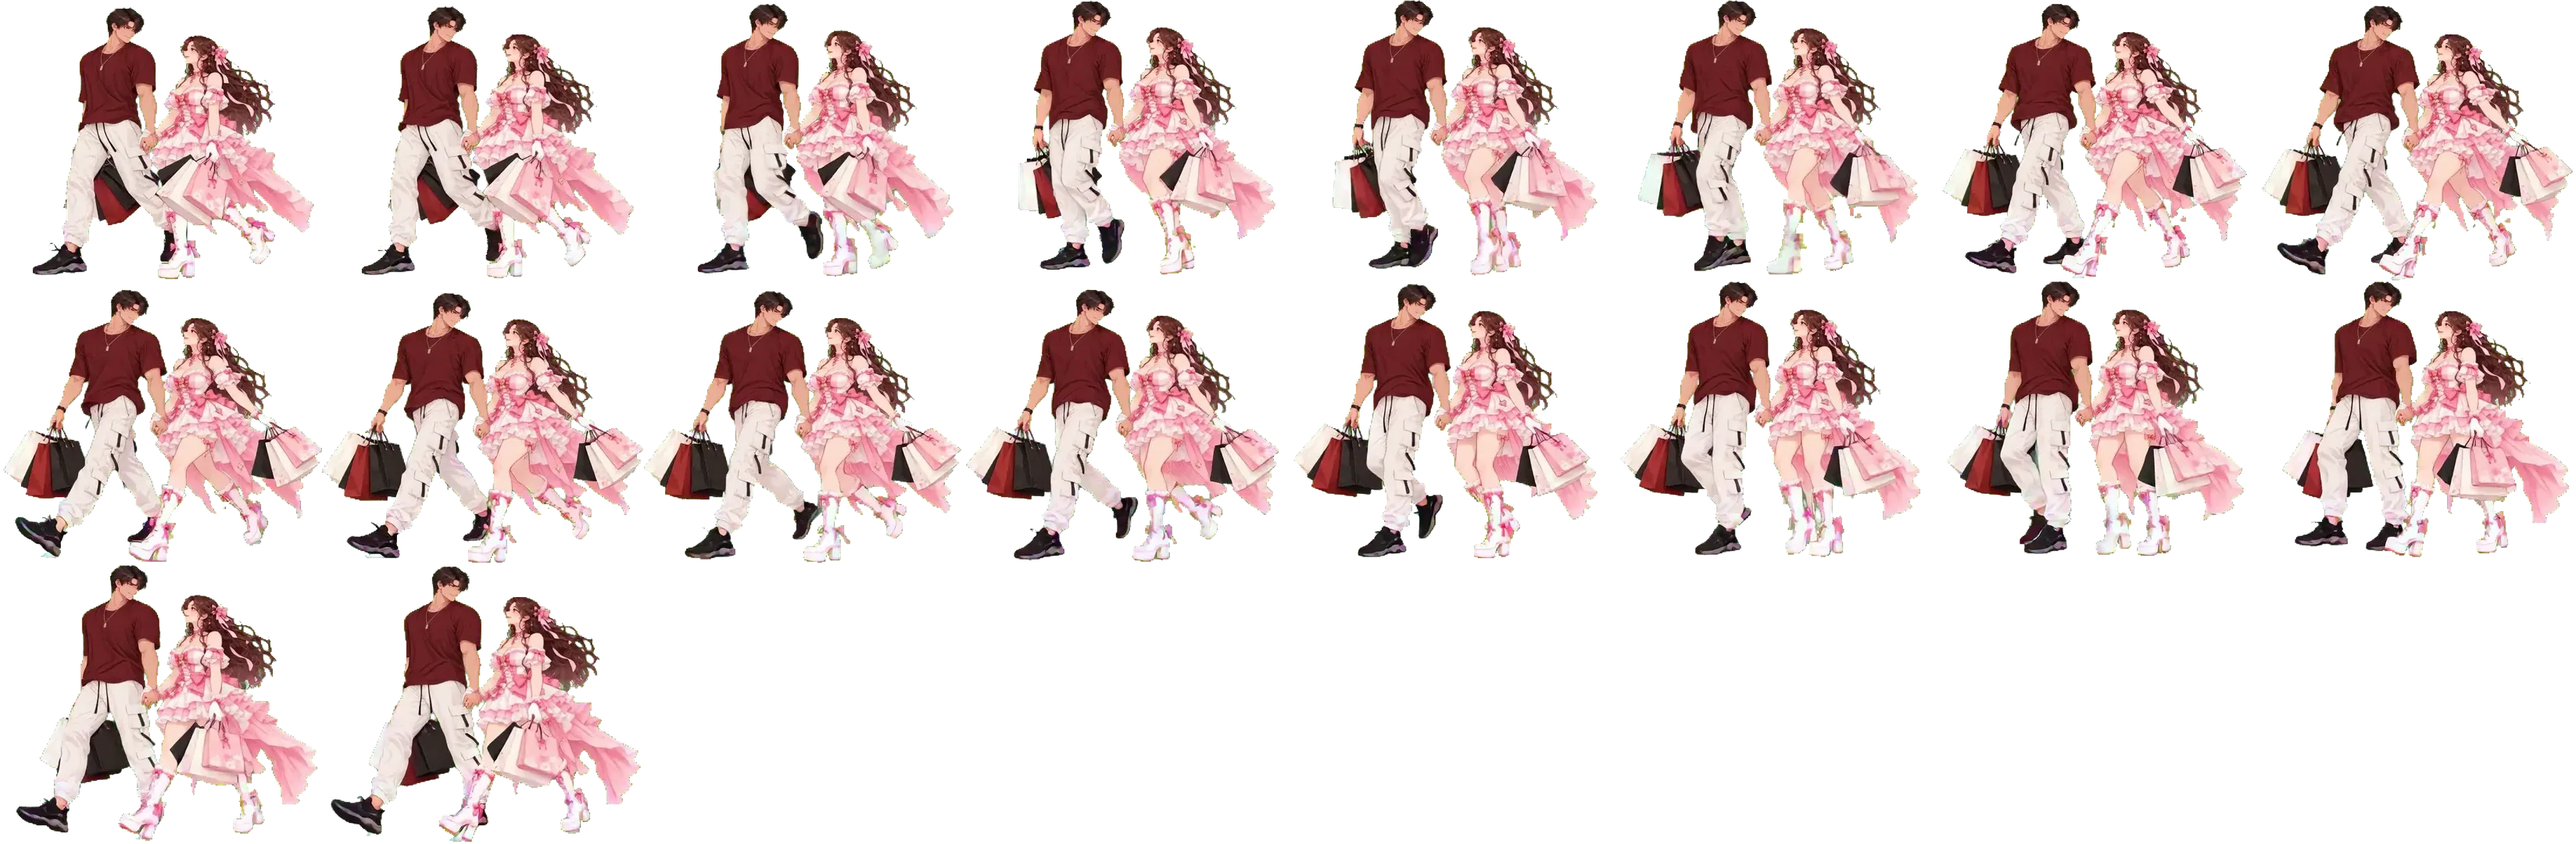
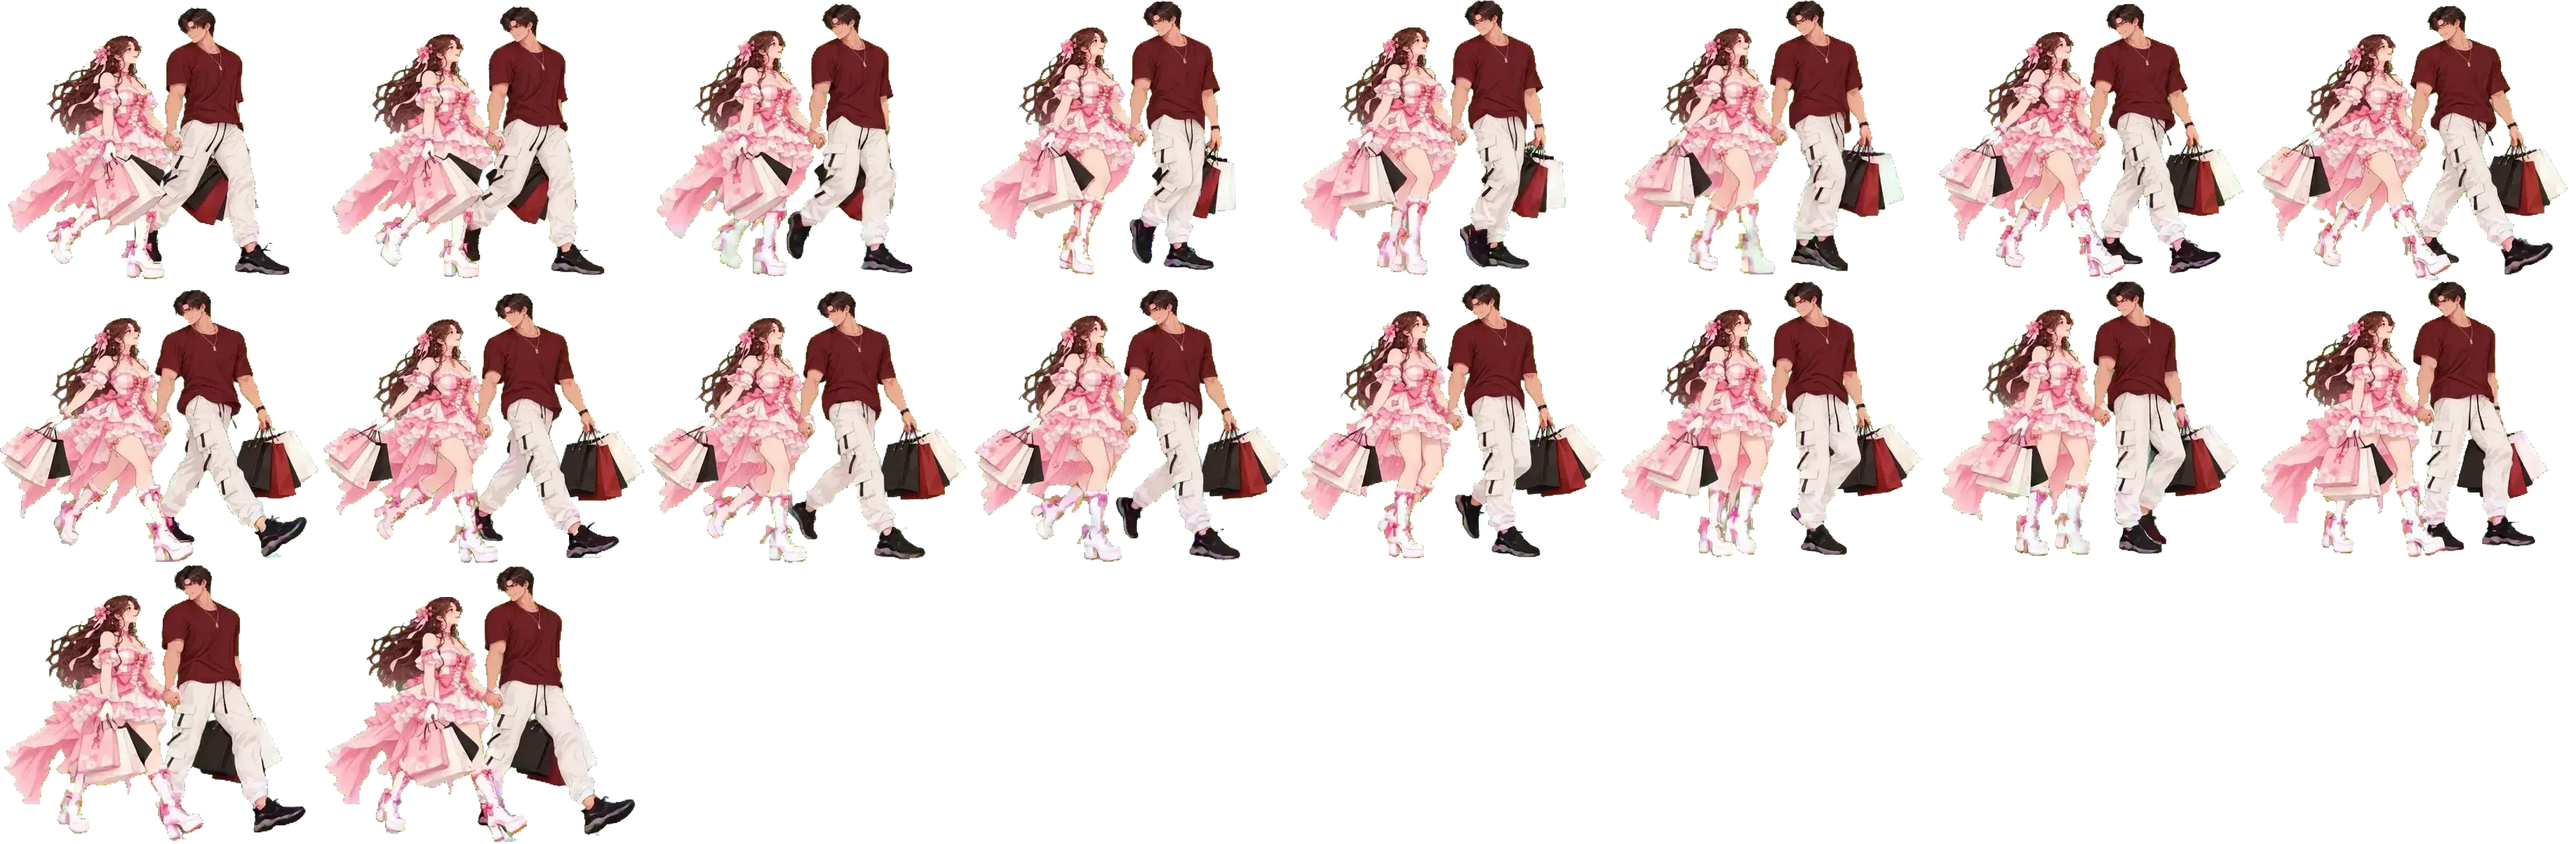
Tienda: Ari y Coen llegan con la ropa del paseo, compran frente a la mesa de perfil con la caja encima y Rancek les entrega las bolsas; mismo tamaño al caminar y al detenerse; el paseo vuelve a caminar hacia la derecha

diff --git a/cuento.js b/cuento.js
@@ -419,24 +419,21 @@
     ] },
     vi: { carpeta: 'cap6/', hitos: [
       { fondo: 'fondo-tienda.webp', suelo: 'suelo-tienda.webp', titulo: 'La tienda mágica de Rancek', texto: 'Joyas, vestidos, perfumes y trajes encantados.', pasos: [
-        // Rancek atiende de perfil detrás de su mostrador; sobre el mostrador, la registradora que después baja colgando
-        { nombre: 'mago', img: 'assets/personajes/rancek-lado.webp', x: 72, alto: 17, clase: 'espejo tras-mostrador', ms: 500, pausa: 0 },
-        { nombre: 'mostrador', img: 'mostrador.webp', x: 68, alto: 13.5, clase: 'mostrador', ms: 500, pausa: 0 },
-        { nombre: 'caja', img: 'registradora.webp', x: 64, alto: 8, clase: 'sobre-mostrador', ruta: [[0, 64, 10.8], [1, 64, 10.8]], yAncho: true, ms: 300, pausa: 300 },
-        // Ari y Coen entran por la izquierda y llegan hasta el mostrador
-        { texto: { titulo: 'Un día…', texto: 'Ari y Coen llegaron a la tienda mágica de Rancek.' }, nombre: 'ari-c', actor: 'ari-anda', camina: [0, 1], cicloMs: 1000, x: -8, alto: 16, delante: true, entra: true, ruta: [[0, -8], [1, 47]], ms: 3400, junto: true, sigue: true },
-        { nombre: 'coen-c', actor: 'coen-anda', camina: [0, 1], cicloMs: 1000, x: -18, alto: 17, delante: true, entra: true, ruta: [[0, -18], [1, 36]], ms: 3400, pausa: 0 },
-        { nombre: 'ari', img: 'assets/personajes/ari-lado.webp', x: 47, alto: 16, delante: true, clase: 'espejo', reemplaza: 'ari-c', sigue: true, ms: 100, pausa: 0 },
-        { nombre: 'coen', img: 'assets/personajes/coen-lado.webp', x: 36, alto: 17, delante: true, clase: 'espejo', reemplaza: 'coen-c', sigue: true, ms: 300, pausa: 200 },
-        { texto: { titulo: 'Rancek:', texto: '«¡Bienvenidos a mi tienda! ¿Qué se les ofrece?»' }, nombre: 'mago', clase: 'espejo tras-mostrador saluda', fx: { tipo: 'destello', x: 72, ancho: 9, y: 16 }, ms: 1800 },
-        { texto: { titulo: 'Ari:', texto: '«¡Algo bonito para la fiesta del reino! ✧»' }, nombre: 'ari', clase: 'espejo saluda', ms: 1800 },
-        { texto: { titulo: 'Coen:', texto: '«…yo pago 😅»' }, nombre: 'coen', clase: 'espejo saluda', ms: 1600 },
+        // Rancek atiende de perfil detrás de su mesa; sobre la mesa, la registradora que después baja colgando
+        { nombre: 'mago', img: 'assets/personajes/rancek-lado.webp', x: 76, alto: 17, clase: 'tras-mostrador', ms: 500, pausa: 0 },
+        { nombre: 'mesa', img: 'mesa-perfil.webp', x: 66, alto: 19, clase: 'mostrador espejo', ms: 600, pausa: 300 },
+        // Ari y Coen llegan de la mano, ya con la ropa con que saldrán a pasear
+        { texto: { titulo: 'Un día…', texto: 'Ari y Coen llegaron a la tienda mágica de Rancek.' }, nombre: 'pareja-c', actor: 'pareja-anda', camina: [0, 1], cicloMs: 1100, x: -10, alto: 17, delante: true, entra: true, ruta: [[0, -10], [1, 46]], ms: 3600, pausa: 0 },
+        { nombre: 'pareja', img: 'pareja-perfil.webp', x: 46, alto: 17, delante: true, reemplaza: 'pareja-c', sigue: true, ms: 300, pausa: 200 },
+        { texto: { titulo: 'Rancek:', texto: '«¡Bienvenidos a mi tienda! ¿Qué se les ofrece?»' }, nombre: 'mago', clase: 'tras-mostrador saluda', fx: { tipo: 'destello', x: 76, ancho: 9, y: 16 }, ms: 1800 },
+        { texto: { titulo: 'Ari:', texto: '«¡Algo bonito para la fiesta del reino! ✧»' }, nombre: 'pareja', clase: 'saluda', ms: 1800 },
+        { texto: { titulo: 'Coen:', texto: '«…yo pago 😅»' }, nombre: 'pareja', clase: 'saluda', ms: 1600 },
         { texto: { titulo: 'Tú manejas la caja', texto: 'Elige lo que compran, aplica un descuento, cobra… ¡y entrega la boleta!' }, app: true, ms: 600 },
         { espera: 'tienda-boleta', cierraApp: true, ms: 900 },                                                                  // cuando se entrega la boleta…
-        // …se ponen lo que compraron, y Rancek cierra la tienda para ir con ellos
-        { texto: { titulo: '¡Con sus compras puestas!', texto: 'Ari con su vestido de chica mágica y Coen con su jogger blanco y su polera burdeo.' }, nombre: 'ari2', img: 'ari-paseo.webp', x: 47, alto: 17.5, delante: true, reemplaza: 'ari', sigue: true, efecto: 'brilla', fx: { tipo: 'destello', x: 47, ancho: 16, y: 6, ms: 1100 }, ms: 900, pausa: 0 },
-        { nombre: 'coen2', img: 'coen-paseo.webp', x: 36, alto: 18, delante: true, reemplaza: 'coen', sigue: true, efecto: 'brilla', fx: { tipo: 'destello', x: 36, ancho: 16, y: 6, ms: 1100 }, ms: 1400 },
-        { texto: { titulo: 'Rancek:', texto: '«¡Esperen! Cierro la tienda… ¡yo también voy!»' }, nombre: 'rancek2', img: 'rancek-paseo.webp', x: 62, alto: 18, delante: true, reemplaza: 'mago', sigue: true, efecto: 'brilla', fx: { tipo: 'destello', x: 62, ancho: 16, y: 6, ms: 1100 }, ms: 1800 }
+        // …Rancek les entrega las bolsas y cierra la tienda para ir con ellos
+        { texto: { titulo: 'Rancek:', texto: '«¡Aquí tienen sus bolsas! Gracias por su compra ✦»' }, nombre: 'mago', clase: 'tras-mostrador saluda', fx: [{ tipo: 'destello', x: 58, ancho: 10, y: 12, ms: 900 }, { tipo: 'destello', x: 50, ancho: 16, y: 6, ms: 1100, tras: 500 }], ms: 900, pausa: 0 },
+        { nombre: 'pareja-b', actor: 'paseo', camina: [0, 0], x: 46, alto: 17, delante: true, reemplaza: 'pareja', sigue: true, ms: 1600 },
+        { texto: { titulo: 'Rancek:', texto: '«¡Esperen! Cierro la tienda… ¡yo también voy!»' }, nombre: 'rancek2', img: 'rancek-paseo.webp', x: 84, alto: 17, delante: true, reemplaza: 'mago', sigue: true, efecto: 'brilla', fx: { tipo: 'destello', x: 84, ancho: 16, y: 6, ms: 1100 }, ms: 1800 }
       ] }
     ] },
     paseo: { carpeta: 'cap6/', hitos: [
@@ -604,7 +601,7 @@
         if (p.linea) a.classList.add('por-dibujar');
       }
       // los personajes (animados o recortes de personaje) van más grandes que el escenario, todos en la misma proporción
-      const esPj = p.pj ?? (!!p.actor || /personajes\/|\/(ari-|coen-|rancek|pareja|paseo|medalla|baculo|streamers|publico|dragon-fuego|mo-\d)/.test(p.img || ''));
+      const esPj = p.pj ?? (!!p.actor || /personajes\/|\/(ari-|coen-|rancek|pareja|paseo|medalla|baculo|streamers|publico|dragon-fuego|mo-\d)/.test(p.img ? ruta(esc, p.img) : ''));
       a._ancho = p.ancho ?? p.alto * (esPj ? ESCALA_PJ : 1) * w / hh;
       a.classList.add('hito-pop', 'hito-actor'); if (p.delante) a.classList.add('delante'); if (p.fila) a.classList.add('fila-' + p.fila); if (p.clase) a.classList.add(...p.clase.split(' '));
       a.style.left = ((p.desde ?? p.x) - a._ancho / 2) + '%'; a.style.width = a._ancho + '%'; a.style.aspectRatio = w + ' / ' + hh;

diff --git a/index.html b/index.html
@@ -32,7 +32,7 @@
   <script src="fondo-acuarela.js?v=20261007a" defer></script>
   <script src="secciones.js?v=20261017a" defer></script>
   <script src="libro.js?v=20261013b" defer></script>
-  <script src="cuento.js?v=20261021c" defer></script>
+  <script src="cuento.js?v=20261022c" defer></script>
   <script src="vendor/gsap.min.js" defer></script>
   <script src="vendor/MotionPathPlugin.min.js" defer></script>
   <script src="intro-trazos.js?v=20260929c" defer></script>
